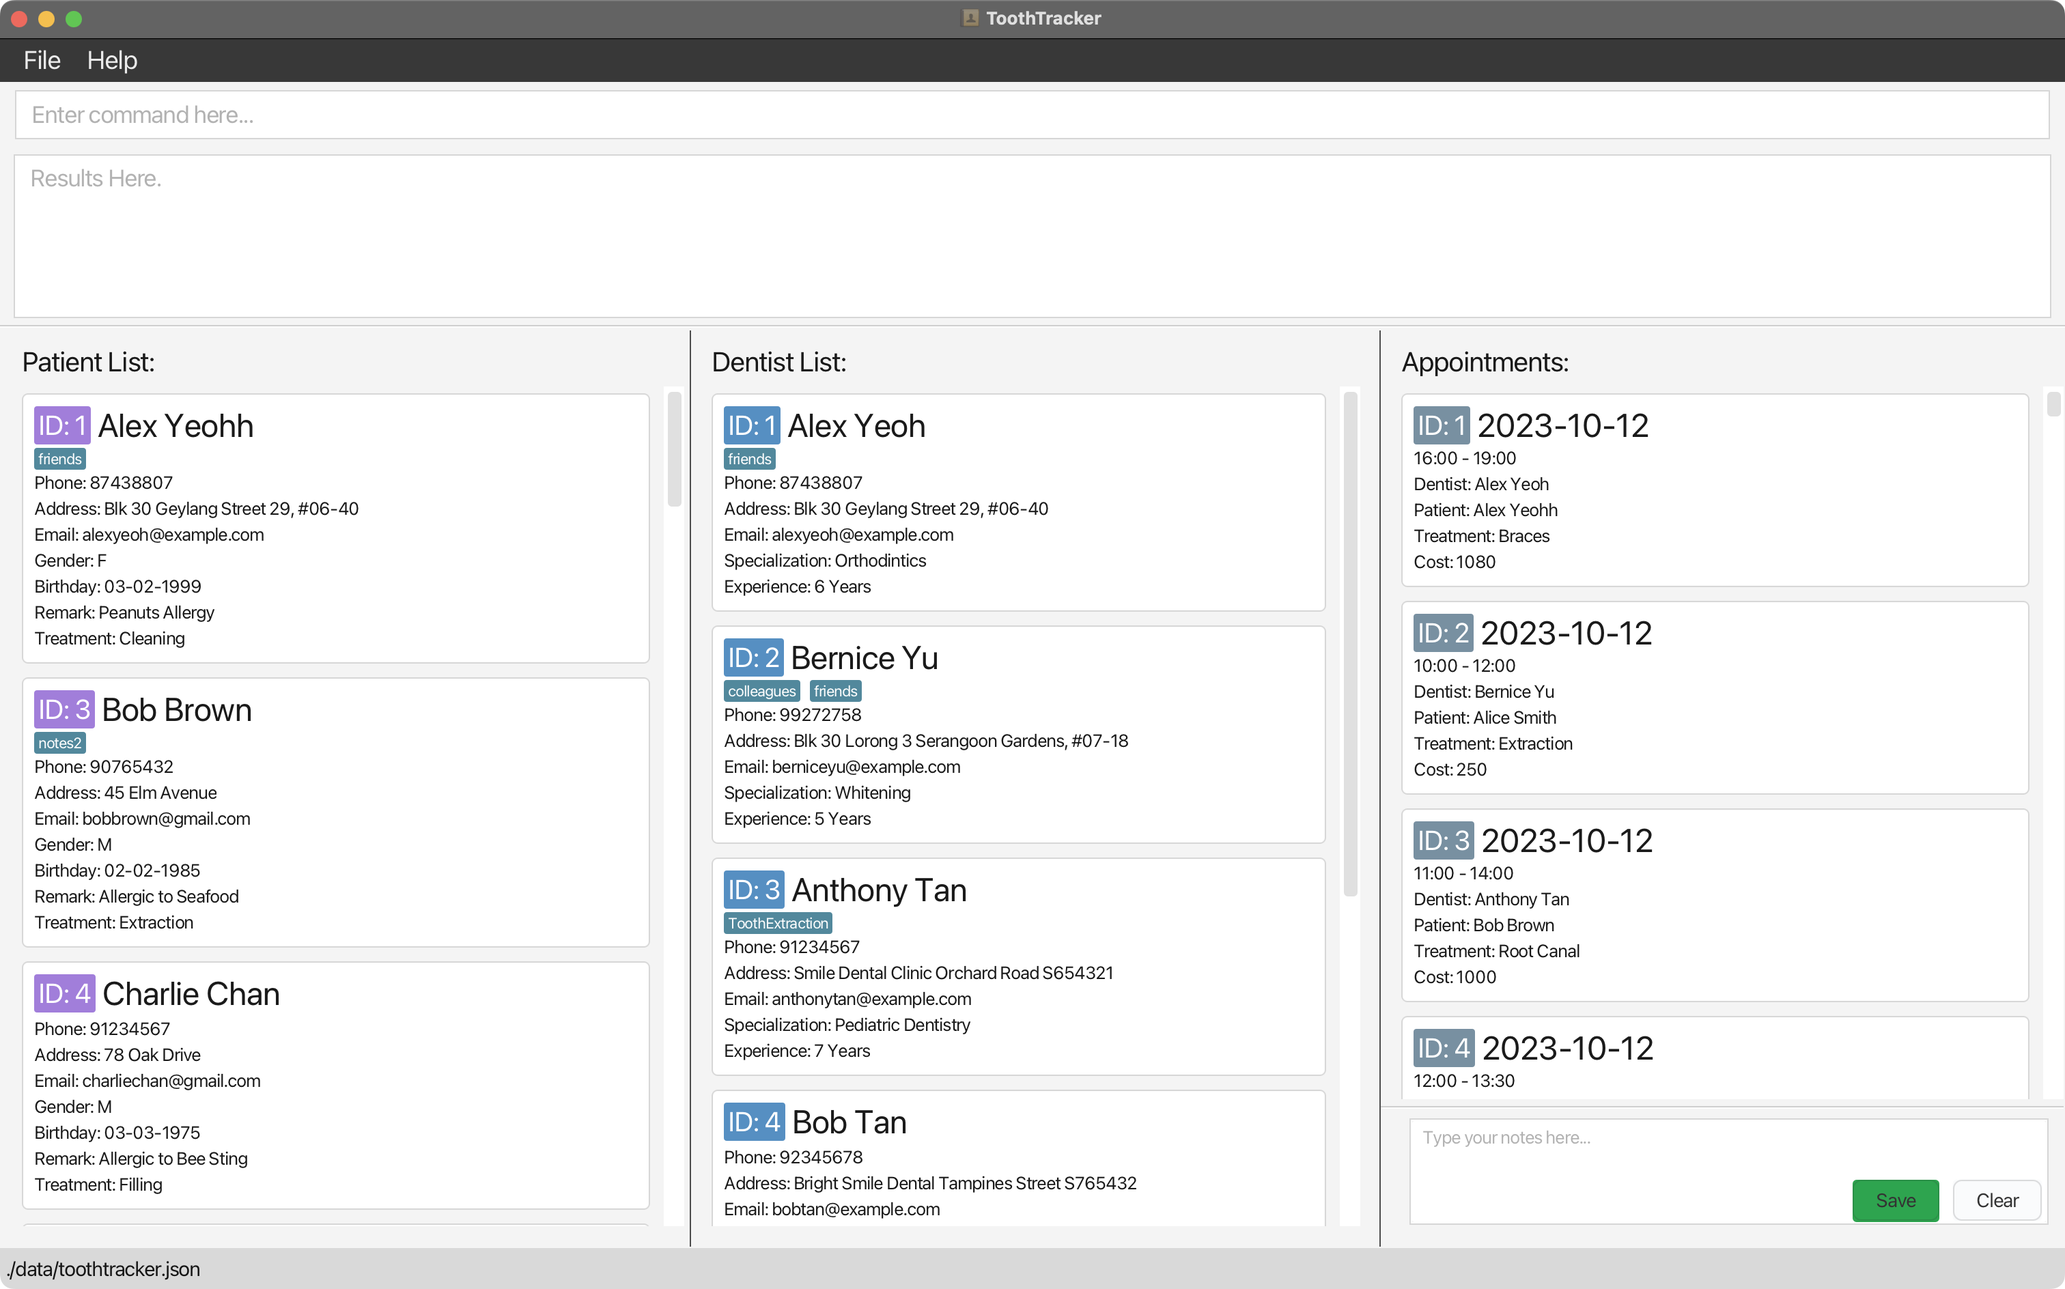
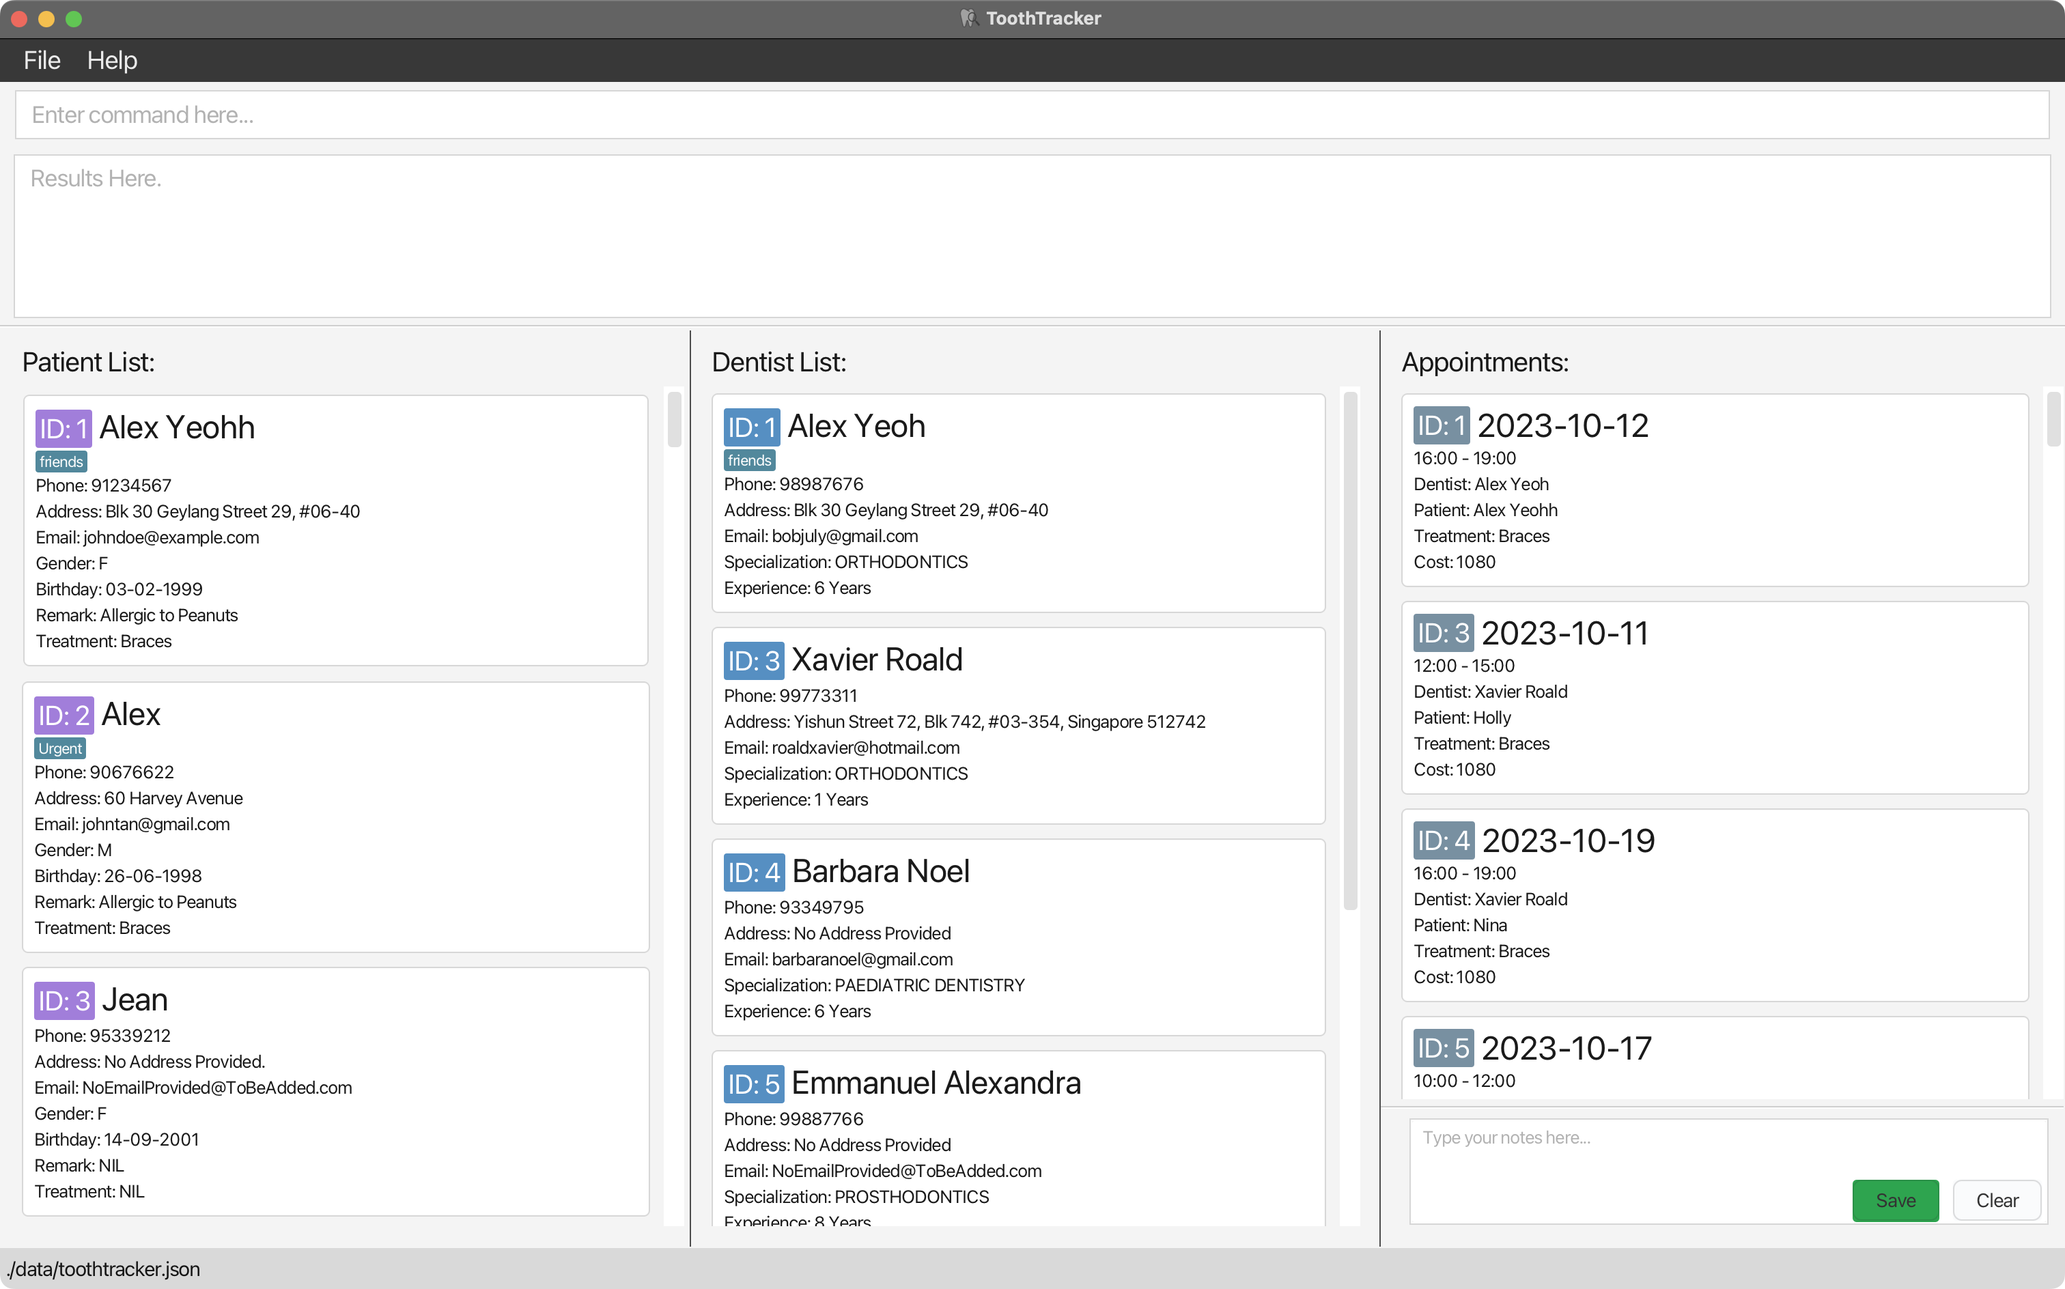
Add screenshots for example commands

diff --git a/docs/_sass/toothtracker.scss b/docs/_sass/toothtracker.scss
@@ -98,3 +98,11 @@ html {
     color: white;
   }
 }
+
+.centered-image {
+    display: block;
+    margin-top: 10px;
+    margin-left: auto;
+    margin-right: auto;
+    width: 720px;
+}

diff --git a/docs/UserGuide.md b/docs/UserGuide.md
@@ -65,8 +65,8 @@ Here are some common icons that is used throughout this user guide
 
 1. Open a command terminal, `cd` into the folder you put the jar file in, and use the `java -jar ToothTracker.jar`
    command to run the application.<br>
-   A GUI similar to the below should appear in a few seconds. Note how the app contains some sample data.<br>
-   ![Ui](images/Ui.png)
+   A GUI similar to the one shown below should appear in a few seconds. Note how the app contains some sample data.<br>
+   ![Ui](images/Ui.png){: .centered-image }
 
 1. Type the command in the command box and press Enter to execute it. e.g. typing `help` and pressing Enter will
    open the help window.<br>
@@ -92,7 +92,8 @@ Here are some common icons that is used throughout this user guide
 ## Quick Reference Guide
 
 ### Layout
-When you launch ToothTracker, ToothTracker appears on your screen as a GUI. Let’s take a look at the layout of the different components of ToothTracker.
+When you launch ToothTracker, ToothTracker appears on your screen as a GUI. 
+Let’s take a look at the layout of the different components of ToothTracker.
 
 ToothTracker’s GUI consists of a Main Window, a Calendar Window as well as the Help Window. The main window consists of six components:
 
@@ -105,17 +106,17 @@ ToothTracker’s GUI consists of a Main Window, a Calendar Window as well as the
 
 The following picture of the main window shows the six components numbered accordingly:
 
-![ToothTracker UI](images/UiAnnotated.png)
+![ToothTracker UI](images/UiAnnotated.png){: .centered-image }
 
 Besides the main window, ToothTracker also has the Calendar Window. It is not part of the main GUI and is only shown after a [Calendar Command](#viewing-calendar--view-calendar) is run.
 
-![Calendar Window](images/CalendarWindow.png)
+![Calendar Window](images/ug/CalendarWindow.png){: .centered-image }
 
 ToothTracker also has the Help Window. This is only shown after a [Help Command](#viewing-help--help) is run.
 
 The Help Window looks like the following:
 
-![Help Window](images/HelpWindow.png)
+![Help Window](images/ug/HelpWindow.png){: .centered-image }
 
 {% include page-break.html %}
 
@@ -197,20 +198,24 @@ Each dentist must have a unique name. ToothTracker does not allow multiple denti
 
 **Examples:**
 * `add-dentist n/Xavier Roald p/99773311 s/Orthodontics y/1 e/roaldxavier@hotmail.com
-h/Yishun Street 72, Blk 742, #03-354, Singapore 512742 t/Undergraduate Trainee`<br>
-This adds a dentist named 'Xavier Roald' with phone number '99773311', email 'roaldxavier@hotmail.com',
-address 'Yishun Street 72, Blk 742, #03-354, Singapore 512742',
-specialising in 'Orthodontics' with 1 year of experience, who is undergoing University Training program under Dentistry.
+h/Yishun Street 72, Blk 742, #03-354, Singapore 512742 t/Trainee`<br>
+This adds a dentist named 'Xavier Roald' with phone number '99773311', specialising in 'Orthodontics' with '1 year of experience',
+email 'roaldxavier@hotmail.com', address 'Yishun Street 72, Blk 742, #03-354, Singapore 512742', who is a 'Trainee' into 
+the list of dentists in ToothTracker.
 
+![add-dentist-example-1](images/ug/dentist/AddDentistExample1.png){: .centered-image }
 
 * `add-dentist n/Barbara Noel p/93349795 e/barbaranoel@gmail.com y/6 s/Paediatric Dentistry`<br>
-This adds a dentist named 'Barbara Noel' with phone number '93349795' and email ‘barbaranoel@gmail.com',
-who has 6 years of experience and specializing in 'Paediatric Dentistry' into the list of dentists in ToothTracker.
+This adds a dentist named 'Barbara Noel' with phone number '93349795' and email 'barbaranoel@gmail.com',
+who has '6 years of experience' and specializing in 'Paediatric Dentistry' into the list of dentists in ToothTracker.
 
+![add-dentist-example-2](images/ug/dentist/AddDentistExample2.png){: .centered-image }
 
-* `add-dentist n/Emmanuel Chua p/99887766 y/8 s/surgery t/extraction`
-This adds a dentist named 'Emmanuel Chua' with phone number '99887766' who has 8 years of experience
-specializing in 'surgery' with a tag of 'extraction' into the list of dentists in ToothTracker.
+* `add-dentist n/Emmanuel Chua p/99887766 y/8 s/prosthodontics t/extraction` <br>
+This adds a dentist named 'Emmanuel Chua' with phone number '99887766' who has '8 years of experience'
+specializing in 'prosthodontics' with a tag of 'extraction' into the list of dentists in ToothTracker.
+
+![add-dentist-example-3](images/ug/dentist/AddDentistExample3.png){: .centered-image }
 
 
 #### Listing all dentists : `list-dentist`
@@ -222,6 +227,7 @@ Shows a list of all dentists in ToothTracker. This is useful when:
 
 **Format:** `list-dentist` (No extra parameters required)
 
+![list-dentist](images/ug/dentist/ListDentistExample.png){: .centered-image }
 
 #### Deleting a dentist : `delete-dentist`
 
@@ -239,7 +245,9 @@ To check the <code>DENTIST_ID</code> of a dentist, you can simply enter the comm
 </div>
 
 **Examples:**
-* `delete-dentist 6` <br> This deletes the dentist with the `DENTIST_ID` 6.
+* `delete-dentist 2` <br> This deletes the dentist with the `DENTIST_ID` 2.
+![delete-dentist-example-1](images/ug/dentist/DeleteDentistExample1.png){: .centered-image }
+
 * `delete-dentist 20` <br> This deletes the dentist with the `DENTIST_ID` 20.
 
 
@@ -260,6 +268,8 @@ To check the `DENTIST_ID` of a dentist, you can simply enter the command `list-d
 
 **Examples:**
 * `search-dentist 5` <br> This searches for the dentist with `DENTIST_ID` 5.
+![search-dentist-id-example-1](images/ug/dentist/SearchDentistIdExample1.png){: .centered-image }
+
 * `search-dentist 10` <br> This searches for the dentist with `DENTIST_ID` 10.
 
 
@@ -285,6 +295,8 @@ This command helps you find dentists that match your search criteria. This is us
 
 **Examples:**
 * `search-dentist John` <br> This searches for dentists with names containing the keyword `John`.
+![search-dentist-keyword-example-1](images/ug/dentist/SearchDentistKeywordExample1.png){: .centered-image }
+
 * `search-dentist Ronald Lim` <br> This searches for dentists with names containing the keyword `Ronald Lim`.
 
 
@@ -306,7 +318,10 @@ We have set the attributes that can be filtered to be:
 
 **Examples:**
 * `filter-dentist a/phone k/98225677` <br> This filters for dentists with the phone number 98225677.
+![filter-dentist-example-1](images/ug/dentist/FilterDentistExample1.png){: .centered-image }
+
 * `filter-dentist a/specialization k/Orthodontics` <br> This filters for dentists with the specialization Orthodontics.
+![filter-dentist-example-2](images/ug/dentist/FilterDentistExample2.png){: .centered-image }
 
 
 #### Editing a dentist : `edit-dentist`
@@ -317,14 +332,6 @@ Edits one or more attributes of the dentist at the specified `DENTIST_ID`. This 
 * You accidentally entered incorrect information about a dentist into the ToothTrack database.
 
 **Format:** `edit-dentist DENTIST_ID [n/NAME] [p/PHONE] [e/EMAIL] [a/ADDRESS] [s/SPECIALIZATION] [y/YOE] [t/TAG]…`
-
-**Examples:**
-
-* `edit-dentist 1 p/98987676 e/bobjuly@gmail.com` <br> This edits the phone number and email of the dentist with
-  `DENTIST_ID` 1 into 98987676 and bobjuly@gmail.com respectively.
-
-* `edit-dentist 2 n/Emmanuel Alexandra t/` <br>
-  This edits the name of the dentist with `DENTIST_ID` 2 into ‘Emmanuel Alexandra’ and removes all tags of the dentist.
 
 <div markdown="span" class="alert alert-primary">:bulb: **Tip:**
 You can edit the particulars in any order and edit more than one particulars of the dentist with a single `edit-dentist` command.
@@ -339,6 +346,17 @@ To check the `DENTIST_ID` of a dentist, you can simply enter the command `list-d
 When editing tags, you have to include any previous tags that was already included in the dentist, or else these tags will be removed.
 This also means that you can use `t/` to remove all tags from a dentist using the <code>edit-dentist</code> command.
 </div>
+
+**Examples:**
+
+* `edit-dentist 1 p/98987676 e/bobjuly@gmail.com` <br> This edits the phone number and email of the dentist with
+`DENTIST_ID` 1 into 98987676 and bobjuly@gmail.com respectively.
+![edit-dentist-example-1](images/ug/dentist/EditDentistExample1.png){: .centered-image }
+
+* `edit-dentist 5 n/Emmanuel Alexandra t/` <br>
+This edits the name of the dentist with `DENTIST_ID` 5 into ‘Emmanuel Alexandra’ and removes all tags of the dentist.
+![edit-dentist-example-2](images/ug/dentist/EditDentistExample2.png){: .centered-image }
+
 
 {% include page-break.html %}
 
@@ -388,11 +406,14 @@ Each patient must have a unique name and ToothTracker does not allow multiple pa
 **Examples:**
 
 * `add-patient n/John p/90676622 b/26-06-1998 g/M r/Allergic to Peanuts tr/Braces e/johntan@gmail.com h/60 Harvey Avenue t/Urgent` <br>
-This adds a new patient named ‘John’, with phone number ‘90676622’, birthdate of 26 June 1998, gender M (Male), remark that he is allergic to peanuts, 
-requesting for Braces treatment, email of ‘johntan@gmail.com’, with an address at 60 Harvey Avenue, and a tag 'Urgent'.
+This adds a new patient named ‘John’, with phone number ‘90676622’, birthdate of '26 June 1998', gender 'M' (Male), remark that he is 'allergic to peanuts',
+requesting for 'Braces' treatment, email of ‘johntan@gmail.com’, with an address at '60 Harvey Avenue', and a tag 'Urgent'.
+![add-patient-example-1](images/ug/patient/AddPatientExample1.png){: .centered-image }
+
 
 * `add-patient n/Jean p/95339212 b/14-09-2001 g/F` <br>
 This adds a new patient named 'Jean', with phone number '95339212', birthdate of 14 September 2001, gender F (Female).
+![add-patient-example-2](images/ug/patient/AddPatientExample2.png){: .centered-image }
 
 
 #### Listing all patients : `list-patient`
@@ -403,6 +424,7 @@ Shows a list of all patients in ToothTracker. This is useful when:
 * You want to verify a patient is updated successfully in ToothTracker.
 
 Format: `list-patient` (No extra parameters required)
+![list-patient-example](images/ug/patient/ListPatientExample.png){: .centered-image }
 
 #### Deleting a patient : `delete-patient`
 
@@ -420,8 +442,11 @@ To check the `PATIENT_ID` of a patient, you can simply enter the command `list-p
 </div>
 
 Examples:
+* `delete-patient 5` <br> This deletes the patient with the `PATIENT_ID` 5.
+![delete-patient-example-1](images/ug/patient/DeletePatientExample1.png){: .centered-image }
+
 * `delete-patient 34` <br> This deletes the patient with the `PATIENT_ID` 34.
-* `delete-patient 48` <br> This deletes the patient with the `PATIENT_ID` 48.
+![delete-patient-example-2](images/ug/patient/DeletePatientExample2.png){: .centered-image }
 
 
 #### Searching for patients by `PATIENT_ID` : `search-patient`
@@ -441,6 +466,8 @@ To check the `PATIENT_ID` of a patient, you can simply enter the command `list-p
 
 **Examples:**
 * `search-patient 2` <br> This searches for the patient with `PATIENT_ID` 2.
+![search-patient-id-example-1](images/ug/patient/SearchPatientIdExample1.png){: .centered-image } 
+
 * `search-patient 8` <br> This searches for the patient with `PATIENT_ID` 8.
 
 
@@ -466,6 +493,8 @@ This command helps you find patients that match your search criteria. This is us
 
 **Examples:**
 * `search-patient John` <br> This searches for patients with names containing the keyword `John`.
+![search-patient-keyword-example-1](images/ug/patient/SearchPatientKeywordExample1.png){: .centered-image }
+
 * `search-patient Ronald Lim` <br> This searches for patients with names containing the keyword `Ronald Lim`.
 
 
@@ -486,8 +515,11 @@ We have set the attributes that can be filtered to be:
 </div>
 
 **Examples:**
-* `filter-patient a/phone k/81076655` <br> This filters for patients with the phone number 81076655.
-* `filter-patient a/treatment k/Cleaning` <br> This filters for patients with the treatment Cleaning.
+* `filter-patient a/phone k/81076655` <br> This filters for patients with the phone number '81076655'.
+![filter-patient-example-1](images/ug/patient/FilterPatientExample1.png){: .centered-image }
+
+* `filter-patient a/treatment k/Braces` <br> This filters for patients with the treatment 'Braces'.
+![filter-patient-example-2](images/ug/patient/FilterPatientExample2.png){: .centered-image }
 
 
 #### Editing a patient : `edit-patient`
@@ -520,11 +552,13 @@ The edited treatment must be a valid treatment in ToothTracker. For a list of va
 
 **Examples:**
 * `edit-patient 1 p/91234567 e/johndoe@example.com r/Allergic to Peanuts`<br>
-  This edits the phone number, email, and remarks of the patient with `PATIENT_ID` 1 into
-  '91234567', 'johndoe@example.com', and 'Allergic to Peanuts' respectively.
+This edits the phone number, email, and remarks of the patient with `PATIENT_ID` 1 into
+'91234567', 'johndoe@example.com', and 'Allergic to Peanuts' respectively.
+![edit-patient-example-1](images/ug/patient/EditPatientExample1.png){: .centered-image }
 
 * `edit-patient 2 n/Alex` <br>
-  This edits the name of the patient with `PATIENT_ID` 2 to 'Alex'.
+This edits the name of the patient with `PATIENT_ID` 2 to 'Alex'.
+![edit-patient-example-2](images/ug/patient/EditPatientExample2.png){: .centered-image }
 
 {% include page-break.html %}
 
@@ -545,10 +579,10 @@ ToothTracker will not allow the addition of appointments that clashes with exist
 
 **Example:**
 * `add-appointment dentist/1 patient/1 start/2023-10-12 16:00 tr/Braces` <br>
-  This command adds an appointment with the `PATIENT_ID` 1 and the `DENTIST_ID` 1.
-  The appointment starts on 12 October 2023, 4pm. The treatment provided during the appointment is Braces.
-  The duration of the appointment is automatically set based on the selected treatment in ToothTracker.
-
+This command adds an appointment with the `PATIENT_ID` 1 and the `DENTIST_ID` 1.
+The appointment starts on '12 October 2023, 4pm'. The treatment provided during the appointment is 'Braces'.
+The duration of the appointment is automatically set based on the selected treatment in ToothTracker.
+![add-appointment-example](images/ug/appointment/AddAppointmentExample.png){: .centered-image }
 
 #### Listing all appointments : `list-appointment`
 
@@ -557,7 +591,7 @@ Shows a list of all appointments in ToothTracker. This is useful when:
 * you want to verify that the appointment is added to ToothTracker.
 
 **Format:** `list-appointment` (No extra parameters required)
-Shows a list of all appointments in ToothTracker.
+![list-appointment-example](images/ug/appointment/ListAppointmentExample.png){: .centered-image }
 
 
 #### Deleting an appointment : `delete-appointment`
@@ -577,9 +611,9 @@ To check the `APPOINTMENT_ID` of an appointment, you can simply enter the comman
 </div>
 
 **Example:**
-
 * `delete-appointment 2` <br>
-  This deletes the appointment with `APPOINTMENT_ID` 2 from ToothTracker.
+This deletes the appointment with `APPOINTMENT_ID` 2 from ToothTracker.
+![delete-appointment-example](images/ug/appointment/DeleteAppointmentExample.png){: .centered-image }
 
 
 #### Filtering Appointments by `DENTIST_ID` : `filter-appointment dentist`
@@ -598,7 +632,8 @@ You may use `list-dentist` to check out the `DENTIST_ID` first.
 
 **Example:**
 * `filter-appointment dentist 1` <br>
-  This gives you all appointments under the dentist with `DENTIST_ID` 1.
+This gives you all appointments under the dentist with `DENTIST_ID` 1.
+![filter-appointment-dentist-example](images/ug/appointment/FilterAppointmentDentistExample.png){: .centered-image }
 
 
 #### Filtering Appointments by `PATIENT_ID` : `filter-appointment patient`
@@ -616,9 +651,10 @@ You may use `list-patient` to check out the `PATIENT_ID` first.
 </div>
 
 **Example:**
-
 * `filter-appointment patient 1` <br>
 This gives you all appointments under the patient with the `PATIENT_ID` 1.
+![filter-appointment-patient-example](images/ug/appointment/FilterAppointmentPatientExample.png){: .centered-image }
+
 
 {% include page-break.html %}
 
@@ -638,7 +674,8 @@ Each treatment must have a unique name. ToothTracker does not allow multiple tre
 
 **Example:**
 * `add-treatment tr/Tooth Extraction cs/1080 ti/10:30` <br>
-This adds a Tooth Extraction treatment to ToothTracker with a cost of $1080 SGD, and duration of 10 hours and 30 minutes.
+This adds a 'Tooth Extraction' treatment to ToothTracker with a cost of '$1080 SGD', and duration of '10 hours and 30 minutes'.
+![add-treatment-example](images/ug/treatment/AddTreatmentExample.png){: .centered-image }
 
 
 #### Listing all treatments : `list-treatment`
@@ -647,6 +684,7 @@ Shows a list of all treatments in ToothTracker. This is useful when:
 * You want to view the currently available treatments stored in ToothTracker.
 
 Format: `list-treatment` (No extra parameters required)
+![list-treatment-example](images/ug/treatment/ListTreatmentExample.png){: .centered-image }
 
 
 #### Deleting a treatment : `delete-treatment`
@@ -667,6 +705,9 @@ Proceed with caution!
 
 **Example:**
 * `delete-treatment Braces` <br> This deletes the treatment `Braces` from ToothTracker.
+![delete-treatment-example](images/ug/treatment/DeleteTreatmentExample.png){: .centered-image }
+
+
 
 {% include page-break.html %}
 
@@ -678,6 +719,7 @@ Shows a calendar filled with all scheduled appointments in ToothTracker. This is
 * You want a visual summary of all appointments, allowing for a comprehensive overview.
 
 Format: `view-calendar` (No extra parameters required)
+![view-calendar-example](images/ug/ViewCalendarExample.png){: .centered-image }
 
 
 ### General Features
@@ -686,9 +728,10 @@ Format: `view-calendar` (No extra parameters required)
 
 Shows a message explaining how to access the help page.
 
-![help message](images/HelpWindow.png)
+**Format**: `help`
 
-Format: `help`
+![help message](images/ug/HelpWindow.png){: .centered-image }
+
 
 
 #### Clearing all data : `clear`
@@ -703,6 +746,7 @@ Data cleared cannot be recovered.
 
 
 #### Exiting the program : `exit`
+
 Exits ToothTracker app.
 
 **Format:** `exit`
